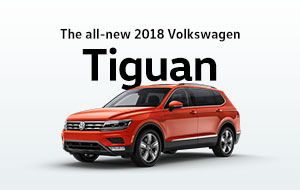
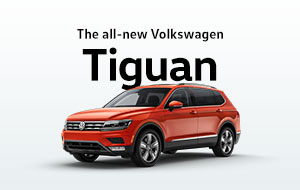
Creative update

Changed region(s): [[0.18, 0.1316, 0.81, 0.2368]]

diff --git a/app/728x90/scripts/Animation.js b/app/728x90/scripts/Animation.js
@@ -38,7 +38,7 @@ app.Animation = (function () {
     // Starts the animation
     function start() {
         tl.to(curtain, .5, {opacity: 0})
-            .to(tig1, 3, {y:"+=80", ease: Sine.easeInOut}, "+=2")
+            .to(tig1, 3, {scale: .73, x:"-=32", y:"+=95", ease: Sine.easeInOut}, "+=2")
             .to(txt1, .5, {opacity: 0}, "-=2")
             .to(vignette, .5, {opacity: 0}, "-=2")
             .to(hero, 1, {opacity: 1}, "+=3")

diff --git a/app/728x90/styles/_layout.scss b/app/728x90/styles/_layout.scss
@@ -70,7 +70,7 @@ body {
     }
 
     #tig1 {
-        left: 0;
+        left: -50px;
         bottom: 0;
         transform: translate3d(0, 0, 0.1px);
         position: absolute;
